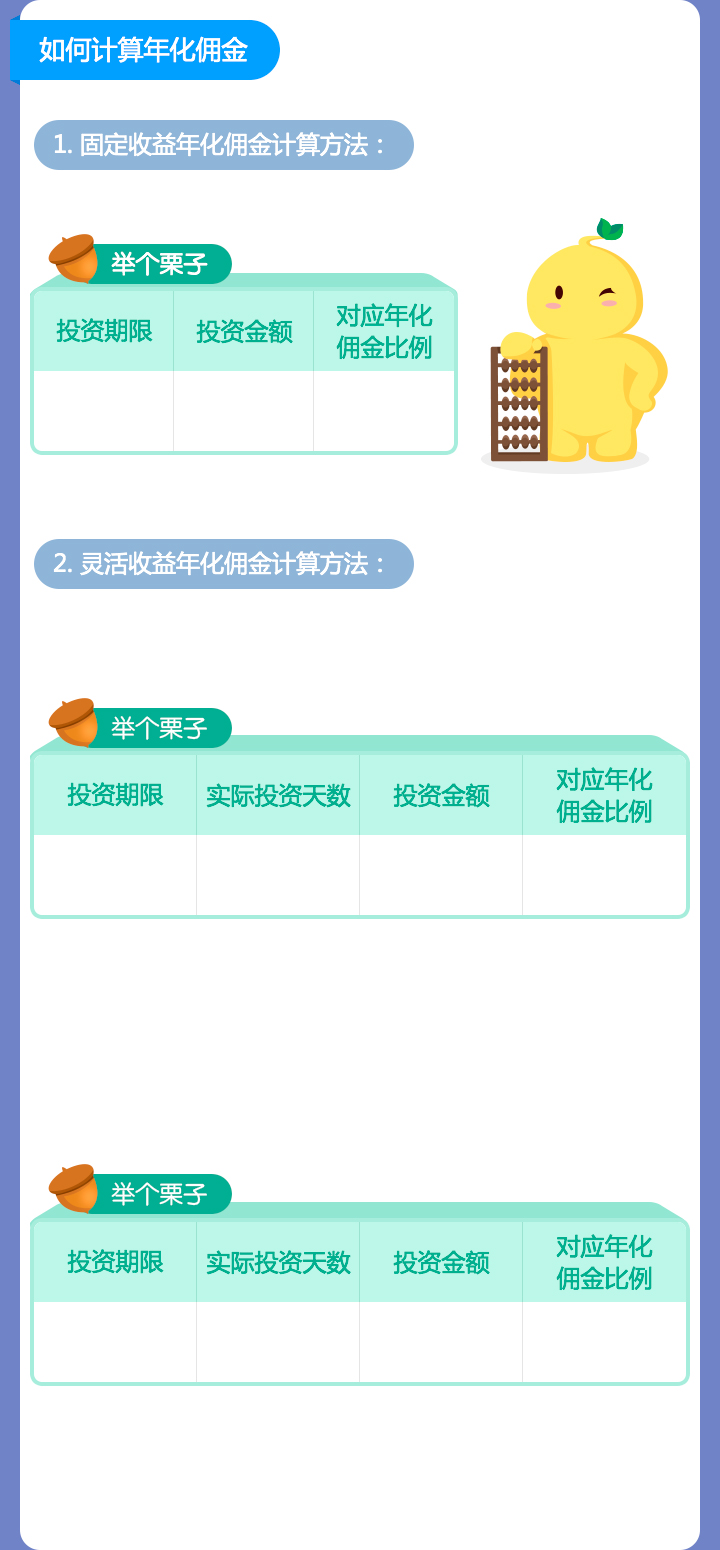
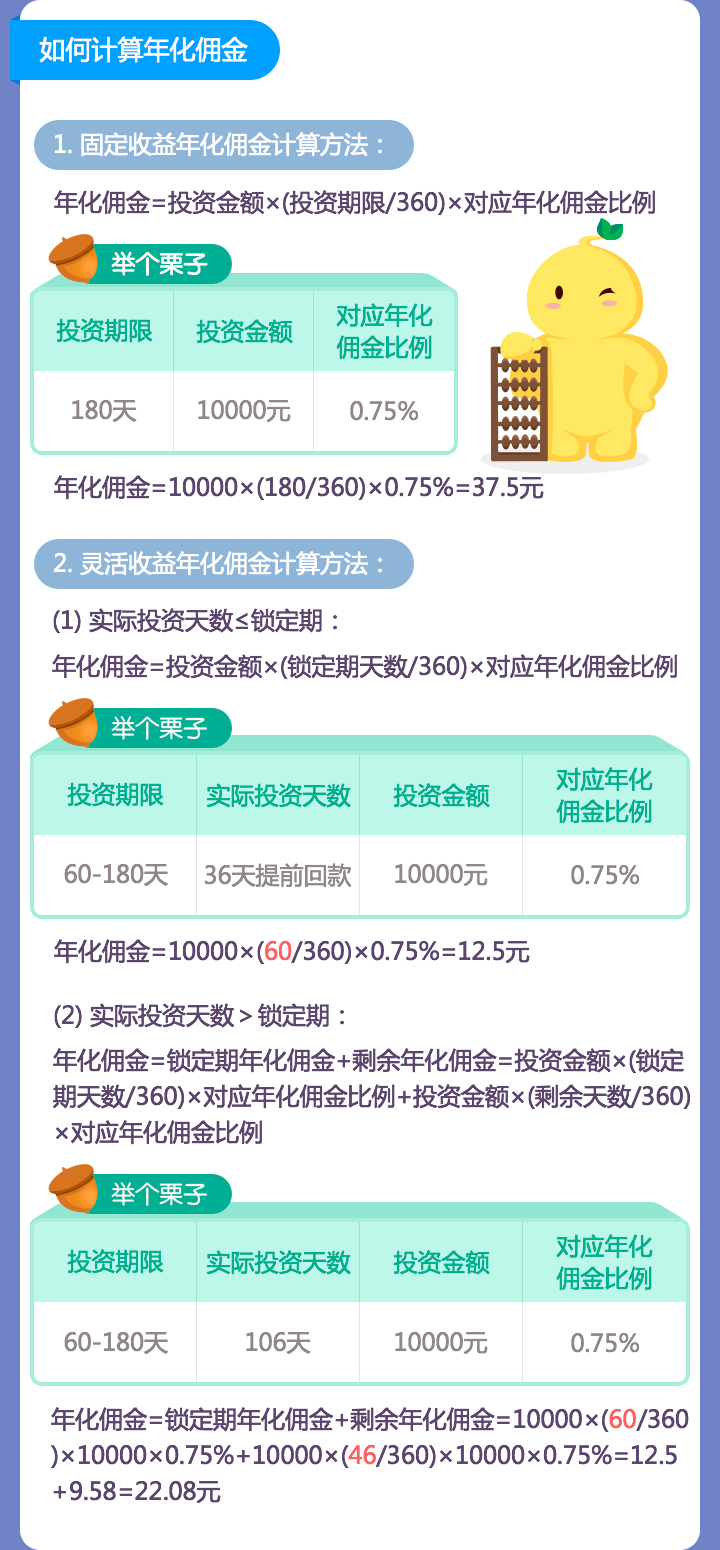
样式修改

diff --git a/apps/main/topic-annual-commision/index.html b/apps/main/topic-annual-commision/index.html
@@ -24,18 +24,18 @@
     </div>
 </div>
 <div class="part3">
-    <div class="commision-formula">年化佣金=投资金额×(投资期限/360)×对应年化佣金比例</div>
-    <div class="invest-table"><span>180天</span><span>10000元</span><span>0.75%</span></div>
-    <div class="commision-data">年化佣金=10000×(180/360)×0.75%=37.5元</div>
-    <div class="invest-condition invest-margin-top1">(1) 实际投资天数≤锁定期：</div>
-    <div class="invest-formula">年化佣金=投资金额×(锁定期天数/360)×对应年化佣金比例</div>
-    <div class="example-table"><span>60-180天</span><span>36天提前回款</span><span>10000元</span><span>0.75%</span></div>
-    <div class="commision-data">年化佣金=10000×(<span>60</span>/360)×0.75%=12.5元</div>
-    <div class="invest-condition invest-margin-top2">(2) 实际投资天数＞锁定期：</div>
-    <div class="invest-formula">年化佣金=锁定期年化佣金+剩余年化佣金=投资金额×(锁定期天数/360)×对应年化佣金比例+投资金额×(剩余天数/360)×对应年化佣金比例</div>
-    <div class="example-table"><span>60-180天</span><span>106天</span><span>10000元</span><span>0.75%</span></div>
-    <div class="commision-data">年化佣金=锁定期年化佣金+剩余年化佣金=10000×(<span>60</span>/360)×10000×0.75%+10000×(<span>46</span>/360)×10000×0.75%=12.5+9.58=22.08元
-    </div>
+    <!--<div class="commision-formula">年化佣金=投资金额×(投资期限/360)×对应年化佣金比例</div>-->
+    <!--<div class="invest-table"><span>180天</span><span>10000元</span><span>0.75%</span></div>-->
+    <!--<div class="commision-data">年化佣金=10000×(180/360)×0.75%=37.5元</div>-->
+    <!--<div class="invest-condition invest-margin-top1">(1) 实际投资天数≤锁定期：</div>-->
+    <!--<div class="invest-formula">年化佣金=投资金额×(锁定期天数/360)×对应年化佣金比例</div>-->
+    <!--<div class="example-table"><span>60-180天</span><span>36天提前回款</span><span>10000元</span><span>0.75%</span></div>-->
+    <!--<div class="commision-data">年化佣金=10000×(<span>60</span>/360)×0.75%=12.5元</div>-->
+    <!--<div class="invest-condition invest-margin-top2">(2) 实际投资天数＞锁定期：</div>-->
+    <!--<div class="invest-formula">年化佣金=锁定期年化佣金+剩余年化佣金=投资金额×(锁定期天数/360)×对应年化佣金比例+投资金额×(剩余天数/360)×对应年化佣金比例</div>-->
+    <!--<div class="example-table"><span>60-180天</span><span>106天</span><span>10000元</span><span>0.75%</span></div>-->
+    <!--<div class="commision-data">年化佣金=锁定期年化佣金+剩余年化佣金=10000×(<span>60</span>/360)×10000×0.75%+10000×(<span>46</span>/360)×10000×0.75%=12.5+9.58=22.08元-->
+    <!--</div>-->
 </div>
 <div class="part4">
     <div class="standard-table"><span>A码人员标准</span><span>10万</span><span>6</span><span>30</span></div>
